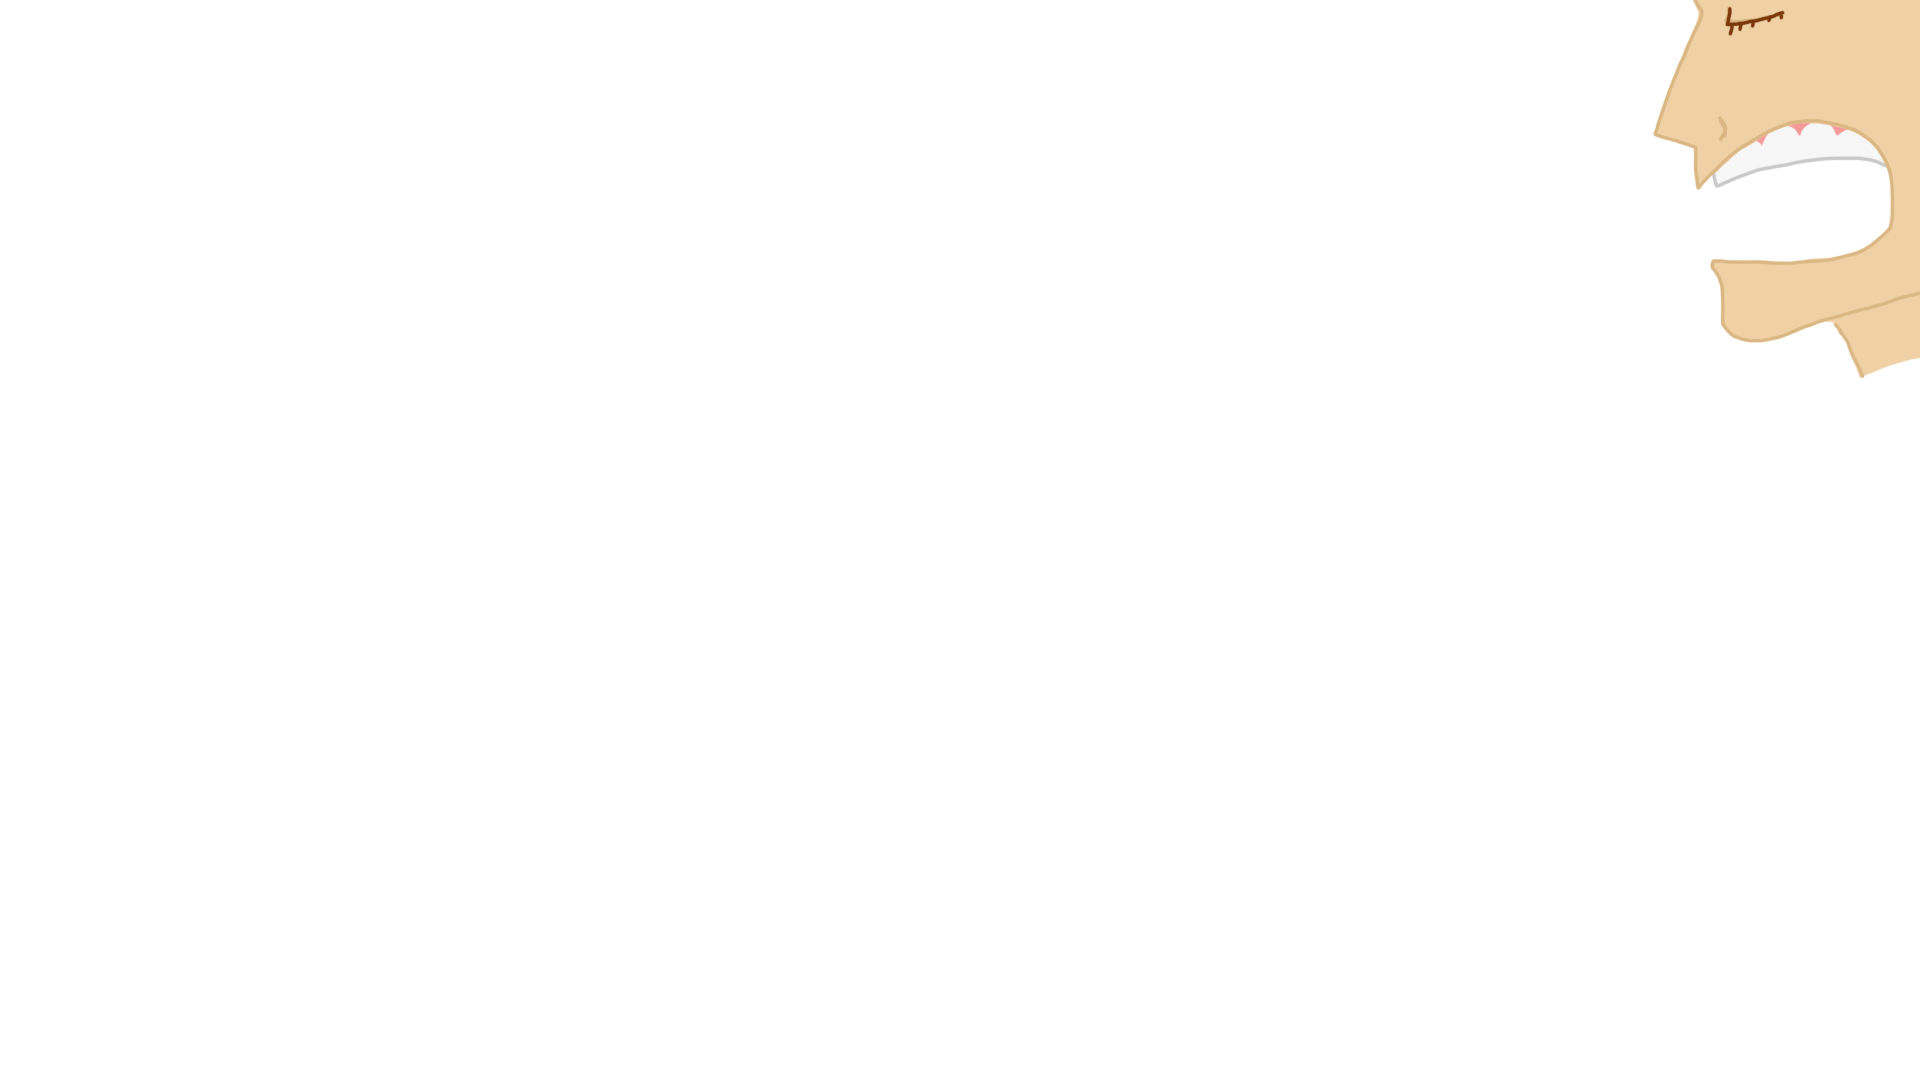
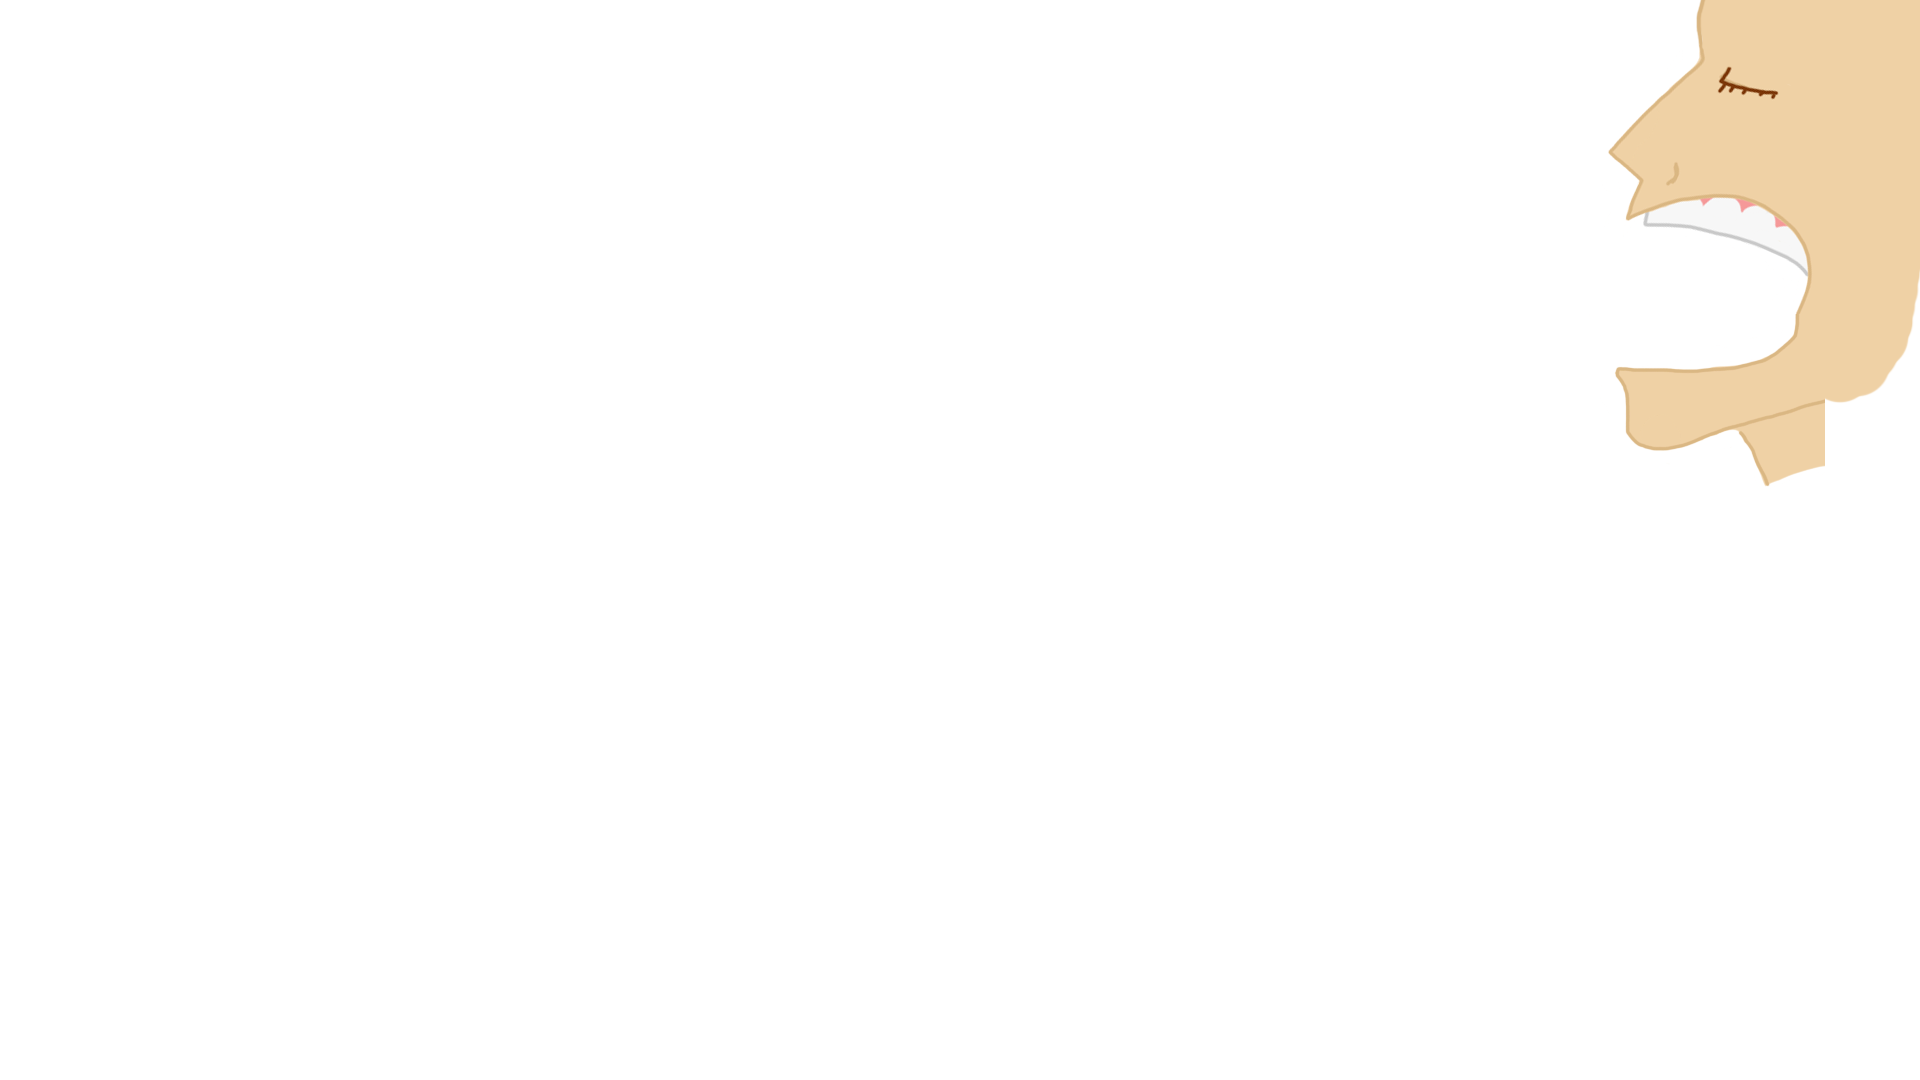
Slerping for smoothness

Changed region(s): [[0.8438, 0.0, 1.0, 0.4583]]

diff --git a/src/Assets/Scripts/Controller2D.cs b/src/Assets/Scripts/Controller2D.cs
@@ -1,0 +1,185 @@
+using UnityEngine;
+using System.Collections;
+
+[RequireComponent(typeof(BoxCollider2D))]
+public class Controller2D : MonoBehaviour
+{
+
+    public LayerMask collisionMask;
+
+    const float skinWidth = .015f;
+    public int horizontalRayCount = 4;
+    public int verticalRayCount = 4;
+
+    float maxClimbAngle = 80;
+
+    float horizontalRaySpacing;
+    float verticalRaySpacing;
+
+    BoxCollider2D collider;
+    RaycastOrigins raycastOrigins;
+    public CollisionInfo collisions;
+
+    void Start()
+    {
+        collider = GetComponent<BoxCollider2D>();
+        CalculateRaySpacing();
+    }
+
+    public void Move(Vector3 velocity)
+    {
+        UpdateRaycastOrigins();
+        collisions.Reset();
+
+        if (velocity.x != 0)
+        {
+            HorizontalCollisions(ref velocity);
+        }
+        if (velocity.y != 0)
+        {
+            VerticalCollisions(ref velocity);
+        }
+
+        transform.Translate(velocity);
+    }
+
+    void HorizontalCollisions(ref Vector3 velocity)
+    {
+        float directionX = Mathf.Sign(velocity.x);
+        float rayLength = Mathf.Abs(velocity.x) + skinWidth;
+
+        for (int i = 0; i < horizontalRayCount; i++)
+        {
+            Vector2 rayOrigin = (directionX == -1) ? raycastOrigins.bottomLeft : raycastOrigins.bottomRight;
+            rayOrigin += Vector2.up * (horizontalRaySpacing * i);
+            RaycastHit2D hit = Physics2D.Raycast(rayOrigin, Vector2.right * directionX, rayLength, collisionMask);
+
+            Debug.DrawRay(rayOrigin, Vector2.right * directionX * rayLength, Color.red);
+
+            if (hit)
+            {
+
+                float slopeAngle = Vector2.Angle(hit.normal, Vector2.up);
+
+                if (i == 0 && slopeAngle <= maxClimbAngle)
+                {
+                    float distanceToSlopeStart = 0;
+                    if (slopeAngle != collisions.slopeAngleOld)
+                    {
+                        distanceToSlopeStart = hit.distance - skinWidth;
+                        velocity.x -= distanceToSlopeStart * directionX;
+                    }
+                    ClimbSlope(ref velocity, slopeAngle);
+                    velocity.x += distanceToSlopeStart * directionX;
+                }
+
+                if (!collisions.climbingSlope || slopeAngle > maxClimbAngle)
+                {
+                    velocity.x = (hit.distance - skinWidth) * directionX;
+                    rayLength = hit.distance;
+
+                    if (collisions.climbingSlope)
+                    {
+                        velocity.y = Mathf.Tan(collisions.slopeAngle * Mathf.Deg2Rad) * Mathf.Abs(velocity.x);
+                    }
+
+                    collisions.left = directionX == -1;
+                    collisions.right = directionX == 1;
+                }
+            }
+        }
+    }
+
+    void VerticalCollisions(ref Vector3 velocity)
+    {
+        float directionY = Mathf.Sign(velocity.y);
+        float rayLength = Mathf.Abs(velocity.y) + skinWidth;
+
+        for (int i = 0; i < verticalRayCount; i++)
+        {
+            Vector2 rayOrigin = (directionY == -1) ? raycastOrigins.bottomLeft : raycastOrigins.topLeft;
+            rayOrigin += Vector2.right * (verticalRaySpacing * i + velocity.x);
+            RaycastHit2D hit = Physics2D.Raycast(rayOrigin, Vector2.up * directionY, rayLength, collisionMask);
+
+            Debug.DrawRay(rayOrigin, Vector2.up * directionY * rayLength, Color.red);
+
+            if (hit)
+            {
+                velocity.y = (hit.distance - skinWidth) * directionY;
+                rayLength = hit.distance;
+
+                if (collisions.climbingSlope)
+                {
+                    velocity.x = velocity.y / Mathf.Tan(collisions.slopeAngle * Mathf.Deg2Rad) * Mathf.Sign(velocity.x);
+                }
+
+                collisions.below = directionY == -1;
+                collisions.above = directionY == 1;
+            }
+        }
+    }
+
+    void ClimbSlope(ref Vector3 velocity, float slopeAngle)
+    {
+        float moveDistance = Mathf.Abs(velocity.x);
+        float climbVelocityY = Mathf.Sin(slopeAngle * Mathf.Deg2Rad) * moveDistance;
+
+        if (velocity.y <= climbVelocityY)
+        {
+            velocity.y = climbVelocityY;
+            velocity.x = Mathf.Cos(slopeAngle * Mathf.Deg2Rad) * moveDistance * Mathf.Sign(velocity.x);
+            collisions.below = true;
+            collisions.climbingSlope = true;
+            collisions.slopeAngle = slopeAngle;
+        }
+    }
+
+    void UpdateRaycastOrigins()
+    {
+        Bounds bounds = collider.bounds;
+        bounds.Expand(skinWidth * -2);
+
+        raycastOrigins.bottomLeft = new Vector2(bounds.min.x, bounds.min.y);
+        raycastOrigins.bottomRight = new Vector2(bounds.max.x, bounds.min.y);
+        raycastOrigins.topLeft = new Vector2(bounds.min.x, bounds.max.y);
+        raycastOrigins.topRight = new Vector2(bounds.max.x, bounds.max.y);
+    }
+
+    void CalculateRaySpacing()
+    {
+        Bounds bounds = collider.bounds;
+        bounds.Expand(skinWidth * -2);
+
+        horizontalRayCount = Mathf.Clamp(horizontalRayCount, 2, int.MaxValue);
+        verticalRayCount = Mathf.Clamp(verticalRayCount, 2, int.MaxValue);
+
+        horizontalRaySpacing = bounds.size.y / (horizontalRayCount - 1);
+        verticalRaySpacing = bounds.size.x / (verticalRayCount - 1);
+    }
+
+    struct RaycastOrigins
+    {
+        public Vector2 topLeft, topRight;
+        public Vector2 bottomLeft, bottomRight;
+    }
+
+    public struct CollisionInfo
+    {
+        public bool above, below;
+        public bool left, right;
+
+        public bool climbingSlope;
+        public float slopeAngle, slopeAngleOld;
+
+        public void Reset()
+        {
+            above = below = false;
+            left = right = false;
+            climbingSlope = false;
+
+            slopeAngleOld = slopeAngle;
+            slopeAngle = 0;
+        }
+    }
+
+}

diff --git a/src/Assets/Scripts/CheekTongue.cs b/src/Assets/Scripts/CheekTongue.cs
@@ -45,6 +45,7 @@ public class CheekTongue : MonoBehaviour
 
         if (Input.GetKeyDown(KeyCode.E))
         {
+
             targetPosition = Camera.main.ScreenToWorldPoint(Input.mousePosition);
             targetPosition.z = 0;
             
@@ -52,8 +53,9 @@ public class CheekTongue : MonoBehaviour
 
             if (contact.collider != null && contact.collider.gameObject.GetComponent<Rigidbody2D>() != null)
             {
-                scaleFactor = contact.collider.gameObject.transform.localScale;
+                cheek.constraints = RigidbodyConstraints2D.None;
 
+                scaleFactor = contact.collider.gameObject.transform.localScale;
                 tongueLength = Vector2.Distance(transform.position, contact.point);
                 distanceFromOrigin = contact.transform.position.y - transform.position.y;
                 tongueAngle = (180 / Math.PI) * Math.Asin(distanceFromOrigin / tongueLength);
@@ -78,7 +80,7 @@ public class CheekTongue : MonoBehaviour
                 else
                 {
                     Debug.Log("Grapple");
-                    cheek.velocity = new Vector2(20.0f, 40f);
+                    cheek.velocity = new Vector2((float)tongueAngle * 1.5f, (float)tongueAngle * 1.5f);
                     joint.enabled = true;
                     joint.connectedBody = contact.collider.gameObject.GetComponent<Rigidbody2D>();
                     joint.connectedAnchor = (contact.point - new Vector2(contact.collider.transform.position.x, contact.collider.transform.position.y)) / scaleFactor;
@@ -109,10 +111,26 @@ public class CheekTongue : MonoBehaviour
     {
         if (joint != null)
         {
+
+
             tongue.SetPosition(0, backOfMouth.transform.position - new Vector3(0, 0, backOfMouth.transform.position.z));
         } else
         {
             tongue.enabled = false;
+        }
+
+        if (!joint.enabled && transform.rotation.z != 0)
+        {
+            float tiltAngle = 60.0f;
+            float tiltAroundZ = Input.GetAxis("Horizontal") * tiltAngle;
+            float tiltAroundX = Input.GetAxis("Vertical") * tiltAngle;
+
+            // Rotate the cube by converting the angles into a quaternion.
+            Quaternion target = Quaternion.Euler(tiltAroundX, 0, tiltAroundZ);
+
+            transform.rotation = Quaternion.Slerp(transform.rotation, target, Time.deltaTime * 5f);
+            cheek.rotation = 0;
+            cheek.constraints = RigidbodyConstraints2D.FreezeRotation;
         }
     }
 

diff --git a/src/Assets/Scripts/Player.cs b/src/Assets/Scripts/Player.cs
@@ -1,0 +1,50 @@
+using UnityEngine;
+using System.Collections;
+
+[RequireComponent(typeof(Controller2D))]
+public class Player : MonoBehaviour
+{
+
+    public float jumpHeight = 4;
+    public float timeToJumpApex = .4f;
+    float accelerationTimeAirborne = .2f;
+    float accelerationTimeGrounded = .1f;
+    float moveSpeed = 6;
+
+    float gravity;
+    float jumpVelocity;
+    Vector3 velocity;
+    float velocityXSmoothing;
+
+    Controller2D controller;
+
+    void Start()
+    {
+        controller = GetComponent<Controller2D>();
+
+        gravity = -(2 * jumpHeight) / Mathf.Pow(timeToJumpApex, 2);
+        jumpVelocity = Mathf.Abs(gravity) * timeToJumpApex;
+        print("Gravity: " + gravity + "  Jump Velocity: " + jumpVelocity);
+    }
+
+    void Update()
+    {
+
+        if (controller.collisions.above || controller.collisions.below)
+        {
+            velocity.y = 0;
+        }
+
+        Vector2 input = new Vector2(Input.GetAxisRaw("Horizontal"), Input.GetAxisRaw("Vertical"));
+
+        if (Input.GetKeyDown(KeyCode.Space) && controller.collisions.below)
+        {
+            velocity.y = jumpVelocity;
+        }
+
+        float targetVelocityX = input.x * moveSpeed;
+        velocity.x = Mathf.SmoothDamp(velocity.x, targetVelocityX, ref velocityXSmoothing, (controller.collisions.below) ? accelerationTimeGrounded : accelerationTimeAirborne);
+        velocity.y += gravity * Time.deltaTime;
+        controller.Move(velocity * Time.deltaTime);
+    }
+}

diff --git a/src/Assets/Scripts/CheekAnimations.cs b/src/Assets/Scripts/CheekAnimations.cs
@@ -20,23 +20,18 @@ public class CheekAnimations : MonoBehaviour
     {
         if (anim.GetBool("grounded"))
         {
-            if (body.transform.localEulerAngles.z != 0)
-            {
-                Quaternion rot = new Quaternion();
-                rot.eulerAngles = new Vector3(0, 0, 0);
-                transform.rotation = rot;
-            } else
+            if (transform.rotation.z < 10f)
             {
                 anim.SetBool("isUpright", true);
-                body.constraints = RigidbodyConstraints2D.FreezeRotation;
+            } else
+            {
+                anim.SetBool("isUpright", false);
             }
+
         }
         else
         {
-            body.constraints = RigidbodyConstraints2D.None;
             anim.SetBool("isUpright", false);
-
-            //         Debug.Log(transform.Find("tongue"));
         }
         if (Input.GetKey(KeyCode.LeftArrow) || Input.GetKey(KeyCode.RightArrow) || Input.GetKey(KeyCode.A) || Input.GetKey(KeyCode.D))
         {

diff --git a/src/Assets/Scripts/PlayerPlatformerController.cs b/src/Assets/Scripts/PlayerPlatformerController.cs
@@ -32,6 +32,7 @@ public class PlayerPlatformerController : PhysicsObject {
             }
         }
 
+
         if (animator) {
             animator.SetBool ("grounded", grounded);
             animator.SetFloat ("velocityX", Mathf.Abs (velocity.x) / maxSpeed);
